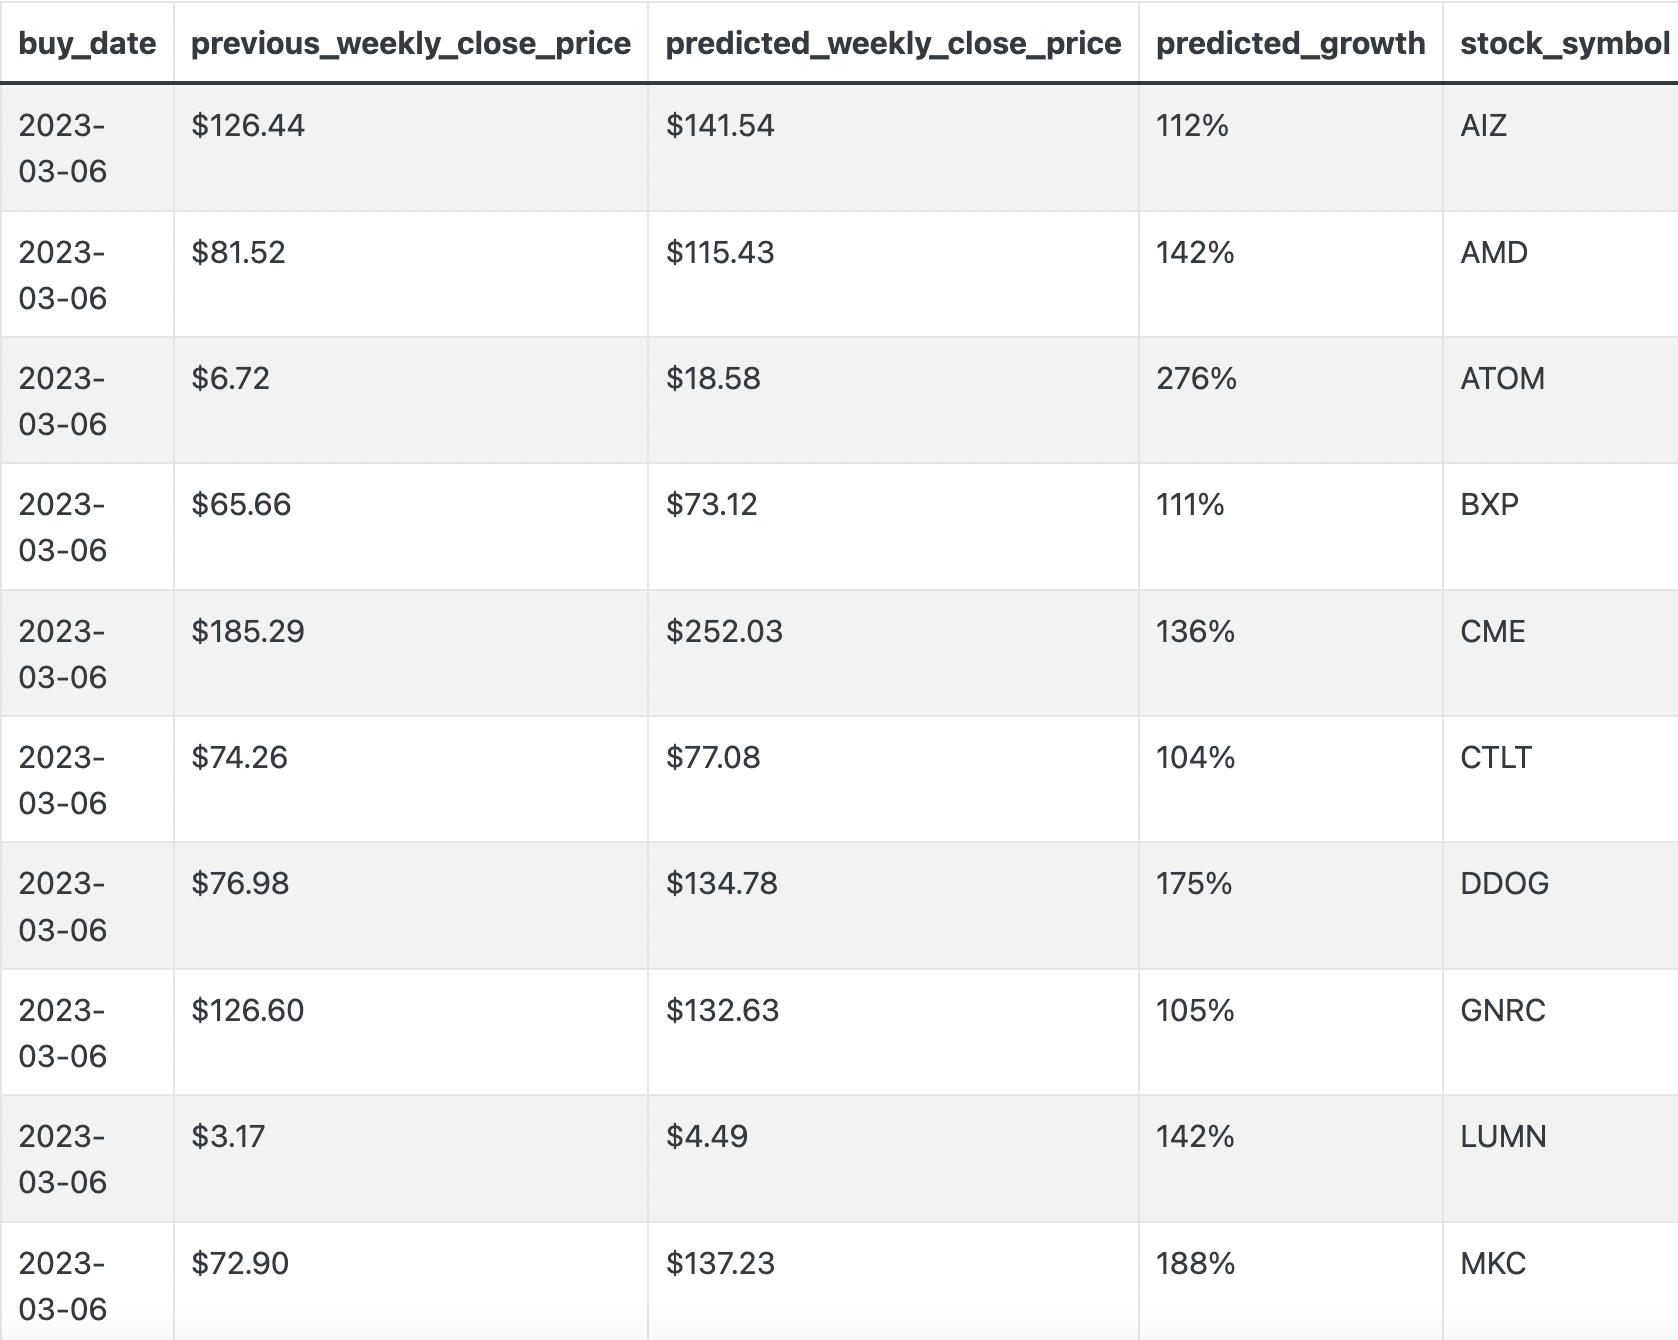
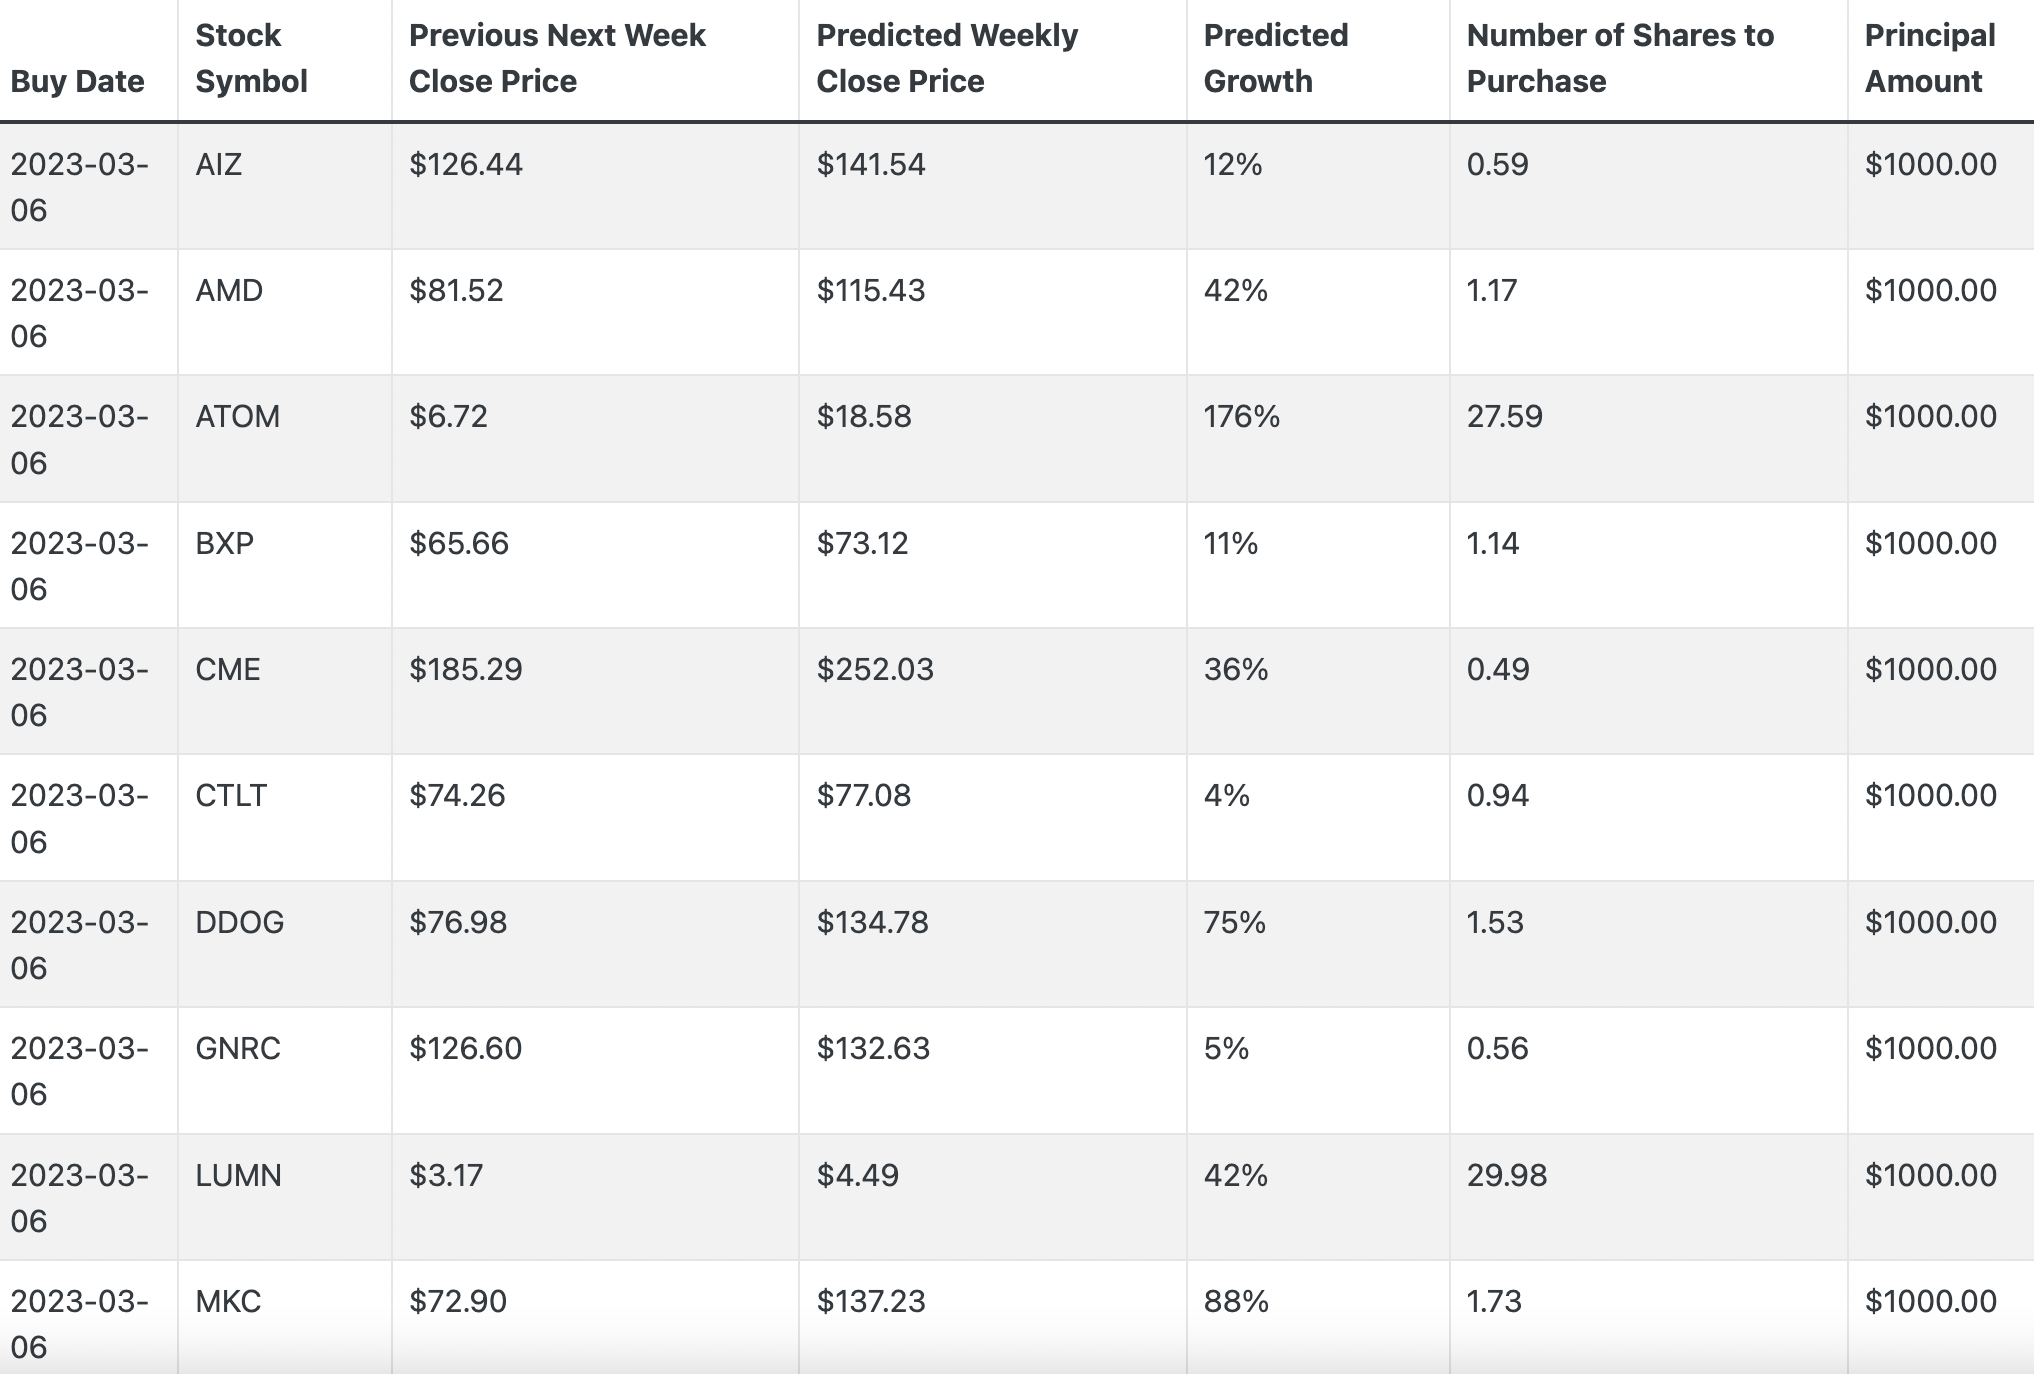
buy recommendation table finished

diff --git a/dataframes_from_queries.py b/dataframes_from_queries.py
@@ -330,22 +330,75 @@ def calculate_ml_model_accuracy():
         query_results_df = query_results_df.append(df_full, ignore_index=True)
     return query_results_df, top_correlation_list, df_of_top_ten_correlations
 
-def stocks_to_buy_this_week():
+def stocks_to_buy_this_week(principal):
     query_results = f'''
-                    select previous_weekly_open_date + interval '7' day as buy_date
-                    , previous_weekly_close_price
-                    , predicted_weekly_close_price
-                    , (predicted_weekly_close_price / previous_weekly_close_price) - 1 as predicted_growth
-                    , stock_symbol 
-                    from future_buy_recommendations
-                    where predicted_weekly_close_price > previous_weekly_close_price
+            with buy_recs as (  
+              select previous_weekly_open_date + interval '7' day as buy_date
+              , previous_weekly_close_price
+              , predicted_weekly_close_price
+              , (predicted_weekly_close_price / previous_weekly_close_price) - 1 as predicted_growth
+              , stock_symbol 
+              from future_buy_recommendations
+              where predicted_weekly_close_price > previous_weekly_close_price
+              ),
+              
+            buy_amounts as (
+              with stock_selections as (
+              SELECT
+                  stock_symbol,
+                  previous_weekly_open_date,
+                  previous_weekly_close_price,
+                  predicted_weekly_close_price, 
+                  predicted_weekly_close_price / previous_weekly_close_price AS predicted_price_change_percentage
+              FROM
+                  public.future_buy_recommendations
+            ),
+            
+            total_estimation as (
+              select previous_weekly_open_date, sum(predicted_price_change_percentage) as total_change_amount
+              from stock_selections
+              group by previous_weekly_open_date
+            )
+            
+            select 
+              stock_symbol
+              , previous_weekly_close_price
+              , {principal} as principal_amount
+              , ({principal} * (predicted_price_change_percentage / total_change_amount)) / previous_weekly_close_price as number_of_shares_to_purchase
+              , predicted_price_change_percentage / total_change_amount as scaled_predicted_change
+            from 
+              stock_selections 
+              join total_estimation on stock_selections.previous_weekly_open_date = total_estimation.previous_weekly_open_date
+            where predicted_price_change_percentage != 0
+            order by 
+             stock_symbol asc
+            )
+            
+            select buy_date
+            , buy_recs.stock_symbol
+            , buy_recs.previous_weekly_close_price
+            , buy_recs.predicted_weekly_close_price
+            , predicted_growth
+            , number_of_shares_to_purchase
+            , principal_amount
+            from buy_recs join buy_amounts on buy_recs.stock_symbol =buy_amounts.stock_symbol
                     '''
     buys_df = pd.read_sql(query_results, con=connect)
     df_full = pd.DataFrame(buys_df)
     df_full['buy_date'] = pd.to_datetime(df_full['buy_date']).apply(lambda x: x.date())
-    df_full['previous_weekly_close_price'] = df_full['previous_weekly_close_price'].apply(format_dollar)
     df_full['predicted_weekly_close_price'] = df_full['predicted_weekly_close_price'].apply(format_dollar)
     df_full['predicted_growth'] = df_full['predicted_growth'].apply(format_percent)
+    df_full['previous_weekly_close_price'] = df_full['previous_weekly_close_price'].apply(format_dollar)
+    df_full['principal_amount'] = df_full['principal_amount'].apply(format_dollar)
+    df_full = df_full.round({'number_of_shares_to_purchase': 2})
+    df_full.rename(columns={'buy_date': 'Buy Date',
+                            'stock_symbol': 'Stock Symbol',
+                             'predicted_weekly_close_price': 'Predicted Weekly Close Price',
+                             'previous_weekly_close_price': 'Previous Next Week Close Price',
+                            'predicted_growth': 'Predicted Growth',
+                            'principal_amount': 'Principal Amount',
+                            'number_of_shares_to_purchase': 'Number of Shares to Purchase'
+                            }, inplace=True)
     return df_full
 
 

diff --git a/ml_models/forecast_top_stocks_model.py b/ml_models/forecast_top_stocks_model.py
@@ -426,3 +426,41 @@ def weekly_buy_recommendation_list():
                                      'week_opening_date': 'previous_weekly_open_date',
                                      'predicted_price': 'predicted_weekly_close_price'}, inplace=True)
     return df_for_pg_upload
+
+
+def calculate_purchase_amounts(principal):
+    query_for_buys = f'''
+    with stock_selections as (
+      SELECT
+          stock_symbol,
+          previous_weekly_open_date,
+          previous_weekly_close_price,
+          predicted_weekly_close_price, 
+          predicted_weekly_close_price / previous_weekly_close_price AS predicted_price_change_percentage
+      FROM
+          public.future_buy_recommendations
+    ),
+
+    total_estimation as (
+      select previous_weekly_open_date, sum(predicted_price_change_percentage) as total_change_amount
+      from stock_selections
+      group by previous_weekly_open_date
+    )
+
+    select 
+      stock_symbol
+      , previous_weekly_close_price
+      , ({principal} * (predicted_price_change_percentage / total_change_amount)) / previous_weekly_close_price as number_of_shares_to_purchase
+      , predicted_price_change_percentage / total_change_amount as scaled_predicted_change
+    from 
+      stock_selections 
+      join total_estimation on stock_selections.previous_weekly_open_date = total_estimation.previous_weekly_open_date
+    where predicted_price_change_percentage != 0
+    order by 
+     stock_symbol asc
+        '''
+    df_for_buys = pd.read_sql(query_for_buys, con=connect)
+    # df_for_buys['previous_weekly_close_price'] = df_for_buys['previous_weekly_close_price'].apply(format_dollar)
+    # df_for_buys['scaled_predicted_change'] = df_for_buys['scaled_predicted_change'].apply(format_percent)
+    # df_for_buys = df_for_buys.round({'number_of_shares_to_purchase': 2})
+    return df_for_buys

diff --git a/pages/blog pages/2_18_23_blog.py b/pages/blog pages/2_18_23_blog.py
@@ -1,5 +1,5 @@
 import dash
-from dash import html
+from dash import html, dcc
 import dash_bootstrap_components as dbc
 import images as my_images
 import base64
@@ -27,10 +27,14 @@ layout = dbc.Container([
     dbc.Row(
         dbc.Col(html.Div([
         html.P('''Alright, the V1 of the machine learning trading algorithm is complete, and....it sucks!'''),
+        html.P('''Well, sort of. This is a "lazy" model. In order to be most accurate to the actual recommendations, each week the 
+        new list of top correlated stocks should be selected and then run through the model. However, I used just the most
+        recent recommendations which means that older weeks have less and less accurate data for training. Since this
+        doesn't affect the accuracy of future predictions, I'm not going to fix it now. Let's just look at the results:'''),
         html.P('''It looks like I was able to convert $1,000 to $555 over the course of 5 months. The S&P 500
         had a bad time over the same period, but it's still unimpressive. The important thing is that I now have
-        a functioning model and a clear way to backtest the model against market performance.'''),
-        html.P('''Next, I need to go back and tune it. That means I need to improve the model accuracy, improve the 
+        a functioning model and a way to backtest the model against market performance.'''),
+        html.P('''Next, I need to go back and tune it. That means I need to tune the ML model, improve the 
         total data collected, choose different keywords to track, and ensure that I can run this model on more
         recent data. That last one is going to be tricky since the current model works only on data where I already have
         the future market data for X number of weeks in the future.'''),

diff --git a/pages/blog pages/3_5_23_blog.py b/pages/blog pages/3_5_23_blog.py
@@ -29,7 +29,8 @@ layout = dbc.Container([
         dcc.Markdown('''
             This week is the first dry run of buy recommendations. The recommendations are now live on the ML dashboard,
             however every stock is predicted to skyrocket. So we'll wait a week before starting the process, but in the 
-            meantime, let's see what would happen.
+            meantime, let's see what would happen. This assumes I'll be to purchase fractional shares, so I'll need to 
+            setup a Robinhood account for this experiment.
         ''')
         ]),
             style={'textAlign': 'left'},
@@ -49,12 +50,10 @@ layout = dbc.Container([
     dbc.Row(
         dbc.Col(html.Div([
             dcc.Markdown('''
-        **Next time**, we'll need to also propose how to split the buys, consistent with the backtest. That means: the higher
-        the predicted growth, the higher percentage of the principal that should be allocated to that stock.
+        **Things that need to be fixed for before next week:**
         
-        Other things that need to be fixed:
-        
-        **1.** Ensure the regression model has no gaps, which is likely what's causing the forecasted price jumps.
+        **1.** Ensure the regression model has no gaps in training data, which is likely what's causing the forecasted 
+        price jumps. There are other model improvements to roll out in subsequent weeks, but this is the first to fix.
         
         **2.** Ensure the dashboard is more legible. 
         

diff --git a/pages/ml_dashboard.py b/pages/ml_dashboard.py
@@ -38,7 +38,7 @@ layout = dbc.Container([
         width={"size": 10, "offset": 1}
         )),
     dbc.Row(
-        dbc.Col(html.Div(id="stocks_to_buy_table"), width={"size": 8, "offset": 2})
+        dbc.Col(html.Div(id="stocks_to_buy_table"), width={"size": 10, "offset": 1})
     ),
     dbc.Row(dbc.Col(html.Div(dcc.Graph(id='date_and_stock_for_chart_backtest', figure={})), width={"size": 9, "offset": 2})),
     html.Div(html.H1(
@@ -126,7 +126,7 @@ def ml_update_output(n_clicks, stock_dropdown_value, filing_type_value, week_del
         ml_data_for_table = dataframes_from_queries.calculate_ml_model_accuracy()
         ml_top_five_accuracy_table = my_dash_charts.generate_table_with_filters(ml_data_for_table[0])
         ml_list_of_top_accuracy_table = my_dash_charts.generate_table(ml_data_for_table[2])
-        stocks_to_buy_table = my_dash_charts.generate_table(dataframes_from_queries.stocks_to_buy_this_week())
+        stocks_to_buy_table = my_dash_charts.generate_table(dataframes_from_queries.stocks_to_buy_this_week(1000))
         # buy_date_text = dataframes_from_queries.buy_date()
         print("filter_applied")
     elif len(stock_dropdown_value) == 0:

diff --git a/Scratchpad.py b/Scratchpad.py
@@ -336,3 +336,4 @@ import passwords
 #         print('Error: ', e)
 #         conn.rollback()
 #
+
